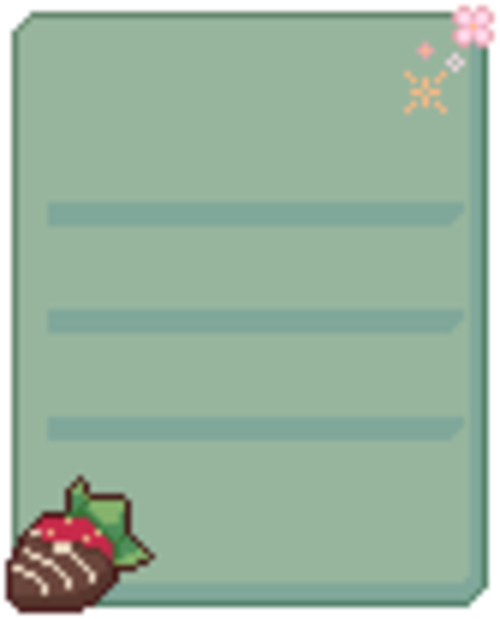
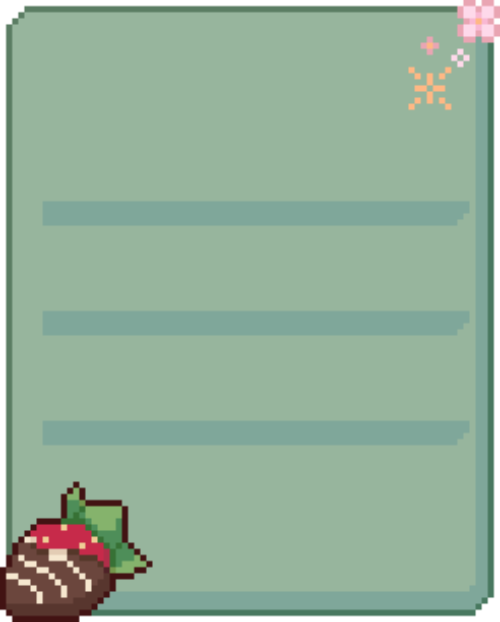
feat: resume State

Changed region(s): [[0.0, 0.0, 1.0, 1.0]]

diff --git a/src/states/MenuState.cpp b/src/states/MenuState.cpp
@@ -11,7 +11,7 @@ MenuState::MenuState(): State(), selector(nullptr){
 
     GameObject* titleObj = new GameObject();
 
-    Sprite* titleImage = new Sprite(*titleObj, "resources/img/MainMenu.jpg");
+    Sprite* titleImage = new Sprite(*titleObj, "resources/img/MenuBackground.png");
     titleObj->AddComponent(titleImage);
 
 
@@ -29,25 +29,19 @@ void MenuState::Update(float dt){
         quitRequested = true;
     }
     else if (InputManager::GetInstance().KeyPress(ESCAPE_KEY)){
-        popRequested = true;
+        quitRequested = true;
     }
     else if(InputManager::GetInstance().KeyPress(ENTER_KEY) && (selector->GetSelected() == 0)){
         NewGameState* newState = new NewGameState();
         Game::GetInstance().Push(newState);
-        popRequested = true;
-        backGroundMusic->Stop(50);
     }
     else if(InputManager::GetInstance().KeyPress(ENTER_KEY) && (selector->GetSelected() == 1)){
         LoadGameState* newState = new LoadGameState();
         Game::GetInstance().Push(newState);
-        popRequested = true;
-        backGroundMusic->Stop(50);
     }
     else if(InputManager::GetInstance().KeyPress(ENTER_KEY) && (selector->GetSelected() == 2)){
         BakeryState* newState = new BakeryState();
         Game::GetInstance().Push(newState);
-        popRequested = true;
-        backGroundMusic->Stop(50);
     }
     for (int i = 0; i < (int) objectArray.size(); i++) {
         objectArray[i]->Update(dt);
@@ -72,11 +66,12 @@ void MenuState::Start(){
     backGroundMusic->Play();
 }
 
-void MenuState::Pause(){}
+void MenuState::Pause(){
+    backGroundMusic->Stop(50);
+}
 
 void MenuState::Resume(){
     Camera::pos.x = 0;
     Camera::pos.y = 0;
-
     backGroundMusic->Play();
 }

diff --git a/src/states/ResumeState.cpp b/src/states/ResumeState.cpp
@@ -21,15 +21,24 @@ ResumeState::~ResumeState(){
 
 void ResumeState::Update(float dt){
 
-    if (InputManager::GetInstance().QuitRequested()){
+    if (InputManager::GetInstance().QuitRequested() || 
+        InputManager::GetInstance().KeyPress(ESCAPE_KEY) || 
+        (InputManager::GetInstance().KeyPress(ENTER_KEY) && (selector->GetSelected() == 0))){
         popRequested = true;
     }
-    else if (InputManager::GetInstance().KeyPress(ESCAPE_KEY)){
-        popRequested = true;
+    
+    else if(InputManager::GetInstance().KeyPress(ENTER_KEY) && (selector->GetSelected() == 1)){
     }
+    
+    else if(InputManager::GetInstance().KeyPress(ENTER_KEY) && (selector->GetSelected() == 2)){
+        popRequested = true;
+        GameData::quitOWState = true;
+    }
+    
     for (int i = 0; i < (int) objectArray.size(); i++) {
         objectArray[i]->Update(dt);
     }
+    
     selector->Update(dt);
 }
 
@@ -45,6 +54,8 @@ void ResumeState::Render() {
 }
 
 void ResumeState::Start(){
+    Camera::pos.x = 0;
+    Camera::pos.y = 0;
     selector = std::make_unique<ResumeSelector>();
     for (int i = 0; i < (int)objectArray.size(); i++){
         objectArray[i]->Start();
@@ -54,6 +65,4 @@ void ResumeState::Start(){
 void ResumeState::Pause(){}
 
 void ResumeState::Resume(){
-    Camera::pos.x = 0;
-    Camera::pos.y = 0;
 }

diff --git a/src/states/OverworldState.cpp b/src/states/OverworldState.cpp
@@ -1,5 +1,8 @@
+#include "GameData.h"
+#include "defines/DefineInput.h"
 #include "enemies/Pancake.h"
 #include "states/OverworldState.h"
+#include "states/ResumeState.h"
 
 OverworldState::OverworldState(): State() {
 
@@ -30,11 +33,9 @@ OverworldState::OverworldState(): State() {
 }
 
 OverworldState::~OverworldState() {
-
 }
 
-void OverworldState::LoadAssets() {
-    
+void OverworldState::LoadAssets() {    
 }
 
 void OverworldState::Update(float dt) {
@@ -42,18 +43,17 @@ void OverworldState::Update(float dt) {
 
     Camera::Update(dt);
 
-    if(iM.QuitRequested()){
-        quitRequested = true;
-    } 
-    else if (iM.KeyPress(ESCAPE_KEY)){
-        popRequested = true;
-        backGroundMusic->Stop(50);
-    } 
-    
+    if (iM.KeyPress(ESCAPE_KEY) || iM.QuitRequested() || iM.KeyPress(P_KEY)){
+        ResumeState* newState = new ResumeState();
+        Game::GetInstance().Push(newState);
+    }
+    if(GameData::quitOWState){
+        popRequested = true; 
+        GameData::quitOWState = false;
+    }
+
     UpdateArray(dt);
-
     CheckCollisions();
-
     DeleteObjects();
 }
 
@@ -69,11 +69,7 @@ void OverworldState::Start() {
 }
 
 void OverworldState::Pause() {
-
 }
 
 void OverworldState::Resume() {
-    Camera::pos.x = 0;
-    Camera::pos.y = 0;
-    backGroundMusic->Play();
 }

diff --git a/src/selectors/ResumeSelector.cpp b/src/selectors/ResumeSelector.cpp
@@ -6,9 +6,9 @@
 #include <memory>
 
 ResumeSelector::ResumeSelector() : selected(0), nButtons(2){
-    Button* buttonResumeGame = new Button(Vec2(500, 250),"resources/img/MenuButton.png", "Resume",24);
-    Button* buttonSaveGame = new Button(Vec2(500, 400),"resources/img/MenuButton.png", "Save Game", 24);
-    Button* buttonExitsGame = new Button(Vec2(500, 550),"resources/img/MenuButton.png", "Exit", 24);
+    Button* buttonResumeGame = new Button(Vec2(500, 250),"resources/img/ResumeButton.png", "Resume",24);
+    Button* buttonSaveGame = new Button(Vec2(500, 400),"resources/img/ResumeButton.png", "Save Game", 24);
+    Button* buttonExitsGame = new Button(Vec2(500, 550),"resources/img/ResumeButton.png", "Exit", 24);
 
     buttons.push_back((std::shared_ptr<Button>) buttonResumeGame);
     buttons.push_back((std::shared_ptr<Button>) buttonSaveGame);

diff --git a/src/Game.cpp b/src/Game.cpp
@@ -115,6 +115,7 @@ void Game::Run() {
         if(GetCurrentState().PopRequested()) {
             stateStack.pop();
             if(stateStack.size()) GetCurrentState().Resume();
+            else return;
         }
         if(storedState != nullptr) {
             GetCurrentState().Pause();

diff --git a/src/Main.cpp b/src/Main.cpp
@@ -1,10 +1,10 @@
 #include "Game.h"
-#include "states/StartState.h"
+#include "states/MenuState.h"
 
 int main(int argc, char** argv) {
     
     Game& game = Game::GetInstance();
-    game.Push(new StartState());
+    game.Push(new MenuState());
     game.Run();
     
     return 0;

diff --git a/include/GameData.h b/include/GameData.h
@@ -8,6 +8,7 @@ class GameData {
     public:
         /// @brief Keeps the current Victory status. Changed when win or lose conditions are met.
         static bool playerAlive;
+        static bool quitOWState;
 
         static Vec2 lastSafePosition;
 };

diff --git a/src/GameData.cpp b/src/GameData.cpp
@@ -2,4 +2,6 @@
 
 bool GameData::playerAlive = false;
 
+bool GameData::quitOWState = false;
+
 Vec2 GameData::lastSafePosition = {0,0};
